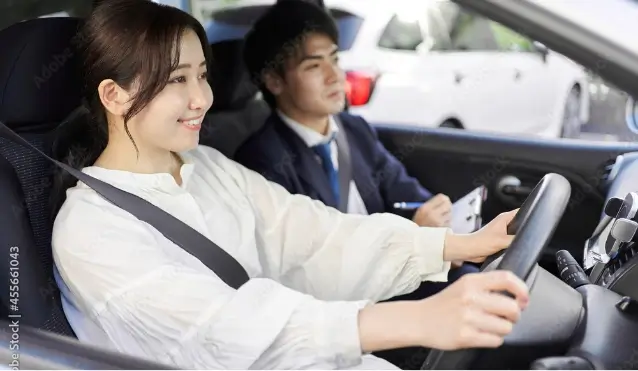
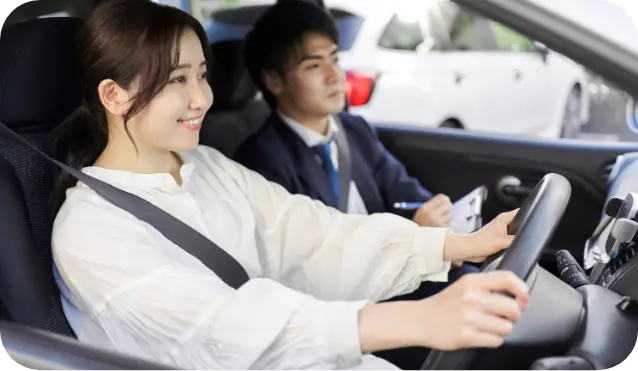
講習リンクボタン画像がカンプの為差し替え

diff --git a/index.php b/index.php
@@ -92,8 +92,8 @@
                                 <div class="boxCourseTop">
                                     <p class="courseTopPhoto">
                                         <picture>
-                                            <source media="(max-width:768px)" srcset="assets/images/index/course-top-photo-01-sp.webp">
-                                            <img src="assets/images/index/course-top-photo-01.webp" alt="ペーパードライバー講習" loading="lazy">
+                                            <source media="(max-width:768px)" srcset="assets/images/index/course-top-photo-01-sp.webp?1">
+                                            <img src="assets/images/index/course-top-photo-01.webp?1" alt="ペーパードライバー講習" loading="lazy">
                                         </picture>
                                     </p>
                                     <h3 class="titleCourseTop">ペーパー<br>ドライバー講習</h3>
@@ -105,8 +105,8 @@
                                 <div class="boxCourseTop">
                                     <p class="courseTopPhoto">
                                         <picture>
-                                            <source media="(max-width:768px)" srcset="assets/images/index/course-top-photo-02-sp.webp">
-                                            <img src="assets/images/index/course-top-photo-02.webp" alt="法人・企業様向け講習" loading="lazy">
+                                            <source media="(max-width:768px)" srcset="assets/images/index/course-top-photo-02-sp.webp?1">
+                                            <img src="assets/images/index/course-top-photo-02.webp?1" alt="法人・企業様向け講習" loading="lazy">
                                         </picture>
                                     </p>
                                     <h3 class="titleCourseTop">法人・企業様<br>向け講習</h3>
